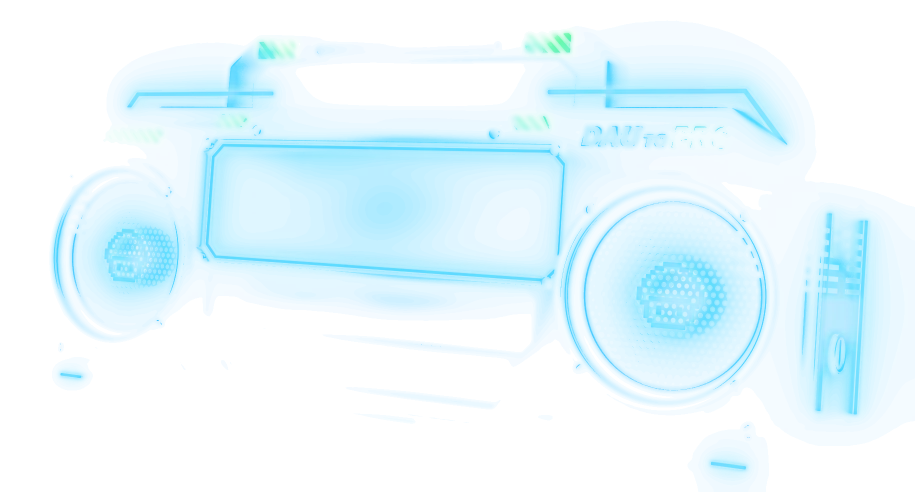
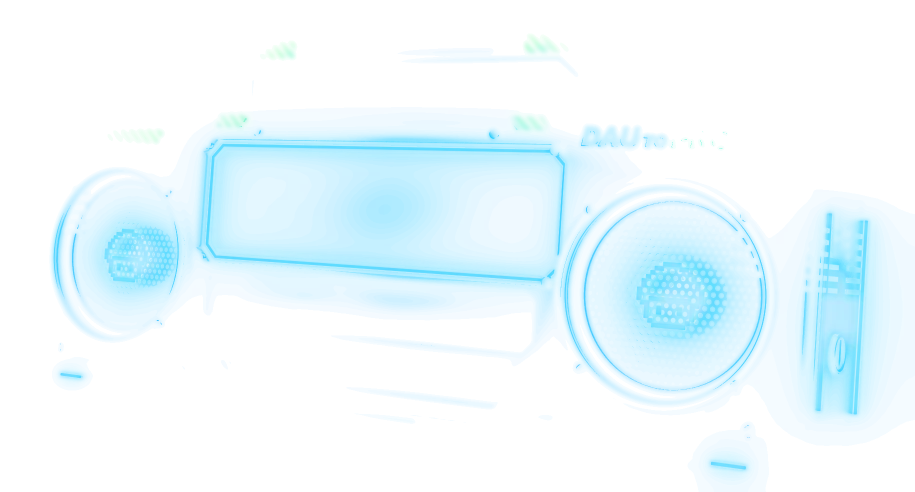
NERD RADIO: Neonstäbe zum Griff entfernt

diff --git a/tools/nerd-radio/build_boombox.py b/tools/nerd-radio/build_boombox.py
@@ -353,8 +353,6 @@ text('PRO', 877, 143, 0.36, M['goldmetal'], blk, d=LOGO_D, extrude=0.02)
 for pts in ([(118, 124), (206, 124), (194, 140), (106, 140)],   # rechts oben sitzt statt Warnstreifen der Schriftzug
             [(292, 106), (330, 106), (322, 120), (284, 120)], [(670, 106), (708, 106), (716, 120), (678, 120)]):
     prism('hazard', pts, -0.09, 0.05, M['hazard'], bevel=0.004)
-tube('neon_back_l', [(52, 140), (106, 74), (318, 74)], 0.5, 0.02, M['neon_c'])
-tube('neon_back_r', [(948, 140), (894, 74), (682, 74)], 0.5, 0.02, M['neon_c'])
 tube('neon_side_l', [(14, 190), (14, 372)], 0.4, 0.018, M['neon_c'])
 tube('neon_side_r', [(986, 190), (986, 372)], 0.4, 0.018, M['neon_c'])
 tube('neon_shoulder_l', [(26, 176), (62, 136)], -0.02, 0.016, M['neon_g'])
@@ -576,8 +574,6 @@ glow_lamp('gl_bottom', (0, -0.45, Z(432)), 70, 0.6, GOLD, 'gold')
 glow_lamp('gl_side_g', (X(980) + 0.45, 0.3, Z(285)), 90, 0.6, GOLD, 'gold')
 glow_lamp('gl_shoulders_l', (X(40), -0.4, Z(160)), 40, 0.4, GOLD, 'gold')
 glow_lamp('gl_shoulders_r', (X(960), -0.4, Z(160)), 40, 0.4, GOLD, 'gold')
-glow_lamp('gl_top_l', (X(200), 0.55, Z(62)), 160, 0.8, CYAN, 'cyan')
-glow_lamp('gl_top_r', (X(800), 0.55, Z(62)), 160, 0.8, CYAN, 'cyan')
 glow_lamp('gl_display', (0, -0.7, Z(205)), 90, 1.2, CYAN, 'cyan')
 glow_lamp('gl_side_c', (X(980) + 0.45, 1.5, Z(285)), 70, 0.6, CYAN, 'cyan')
 for i, (x, y) in enumerate(SPK):
